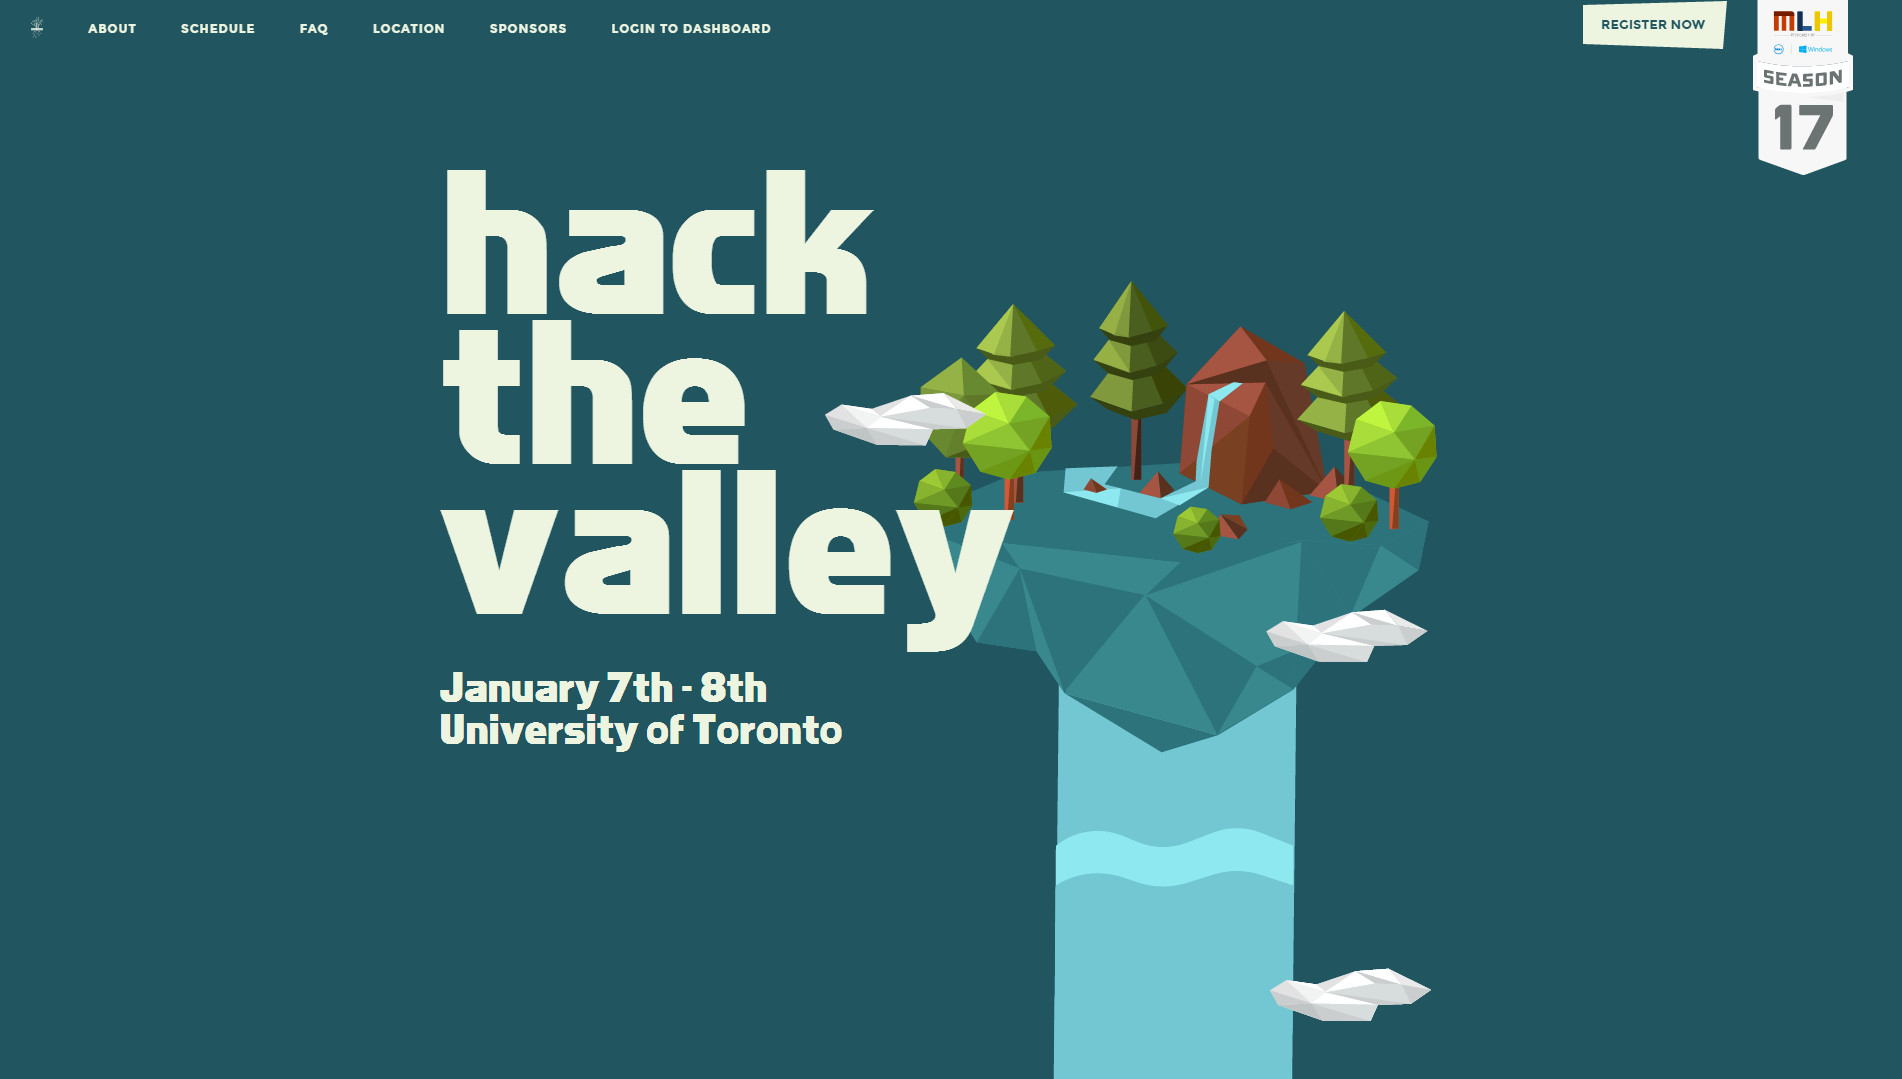
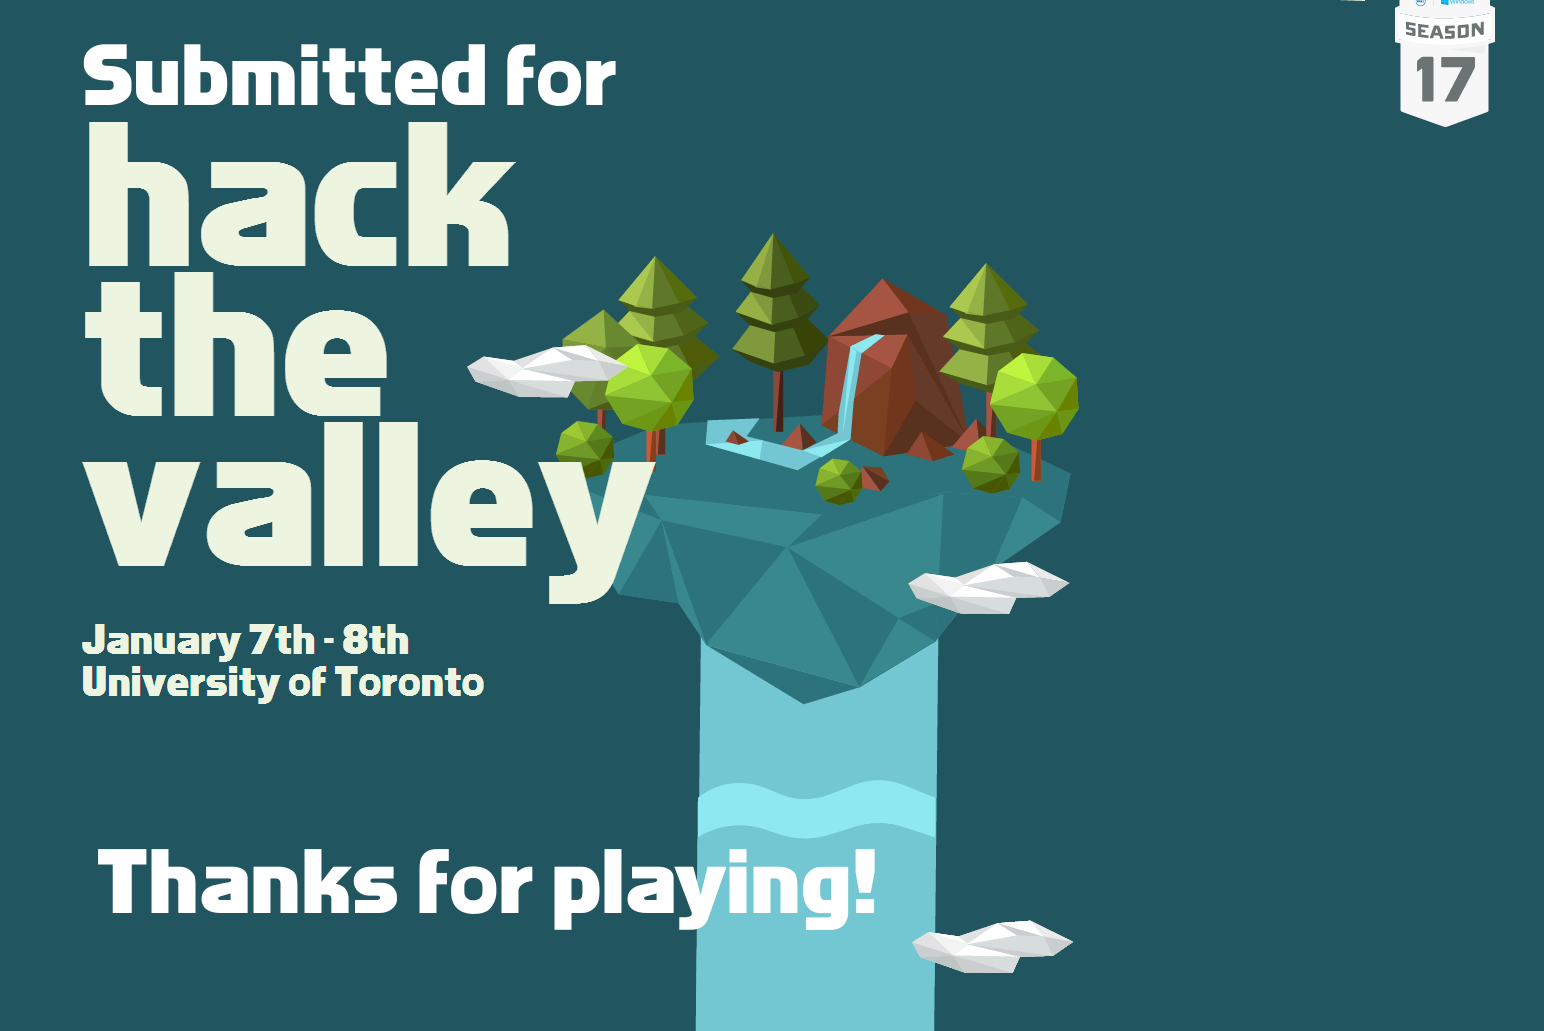
fixed all platform moving glitches, added "thanks for playing!" to last level

Changed region(s): [[0.0311, 0.0, 0.7772, 1.0], [0.8083, 0.0, 0.9948, 0.1862]]

diff --git a/game.html b/game.html
@@ -13,122 +13,18 @@ body {
 	<script src="./jquery-3.1.1.min.js"></script>
         <script src="./createPlayer.js"></script>
 	<script>
-		
+		Crafty.init(1544,1031, document.getElementById('game'));
 
-		Crafty.init(1500,1850, document.getElementById('game'));
+        Crafty.e('Floor, 2D, DOM')
+                .attr({x: 570, y: 465, w: 480, h: 10});
 
-                Crafty.e('Floor, 2D, DOM')
-                        .attr({x: 925, y: 525, w: 425, h: 10});
+        createPlayer(820, 50);
 
-                createPlayer(1000, 0);
-
-
-                Crafty.e('2D, Collision, Canvas')
-                    .attr({x: -200, y: 700, w: 8000, h: 1})
-                    .onHit('Twoway', function(data){
-                        window.location.href = "game.html";
-                    });
-
-
-// 		var idNum = 1;
-// 		var adding = false;
-// 		var changing = false;
-// 		var craftyObjectIds = {ent1: "Floor"};
-
-// 		var observer = new MutationObserver(function(records){
-// 			console.log("call:");
-//             console.log(records);
-// // something was removed
-//             if (records[0].removedNodes.length > 0){
-// 				if (adding == false && changing == false) {
-//                     records[0].removedNodes.forEach(function(elm){
-//                         console.log("destroyed" + elm.id);
-//                         Crafty(craftyObjectIds[elm.id]).destroy();
-// 					});
-// 				}
-//             } else {
-
-// //something was added
-// 				if(records[0].addedNodes.length > 0) {
-//                     records[0].addedNodes.forEach(function(elm){
-// 						console.log("adding: " + elm);
-// 						if (adding == false && changing == false) {
-// 							adding=true;
-// 							console.log(elm);
-// 							console.log(elm.outerHTML);
-// 							var tranformRe = /transform: translate3d\(\d*px, \d*px, \d*px\)/g;
-// 							var transform = tranformRe.exec(elm.outerHTML);
-// 							console.log(transform);
-// 							var numRe = /\d+/g;
-// 							var xyNums =  numRe.exec(transform);
-// 							var posX = numRe.exec(transform);
-// 							var posY = numRe.exec(transform);
-// 							console.log("x:" + posX + "Y:" + posY);
-// 							var sizeW = elm.clientWidth;
-// 							var sizeH = elm.clientHeight;
-// 							console.log(elm.parentNode);
-// 							elm.parentNode.removeChild(elm);
-// 							Crafty.e("entity" + idNum + ", 2D, DOM, Color")
-// 							.attr({x: posX, y: posY, w: sizeW, h: sizeH})
-// 							.color('red');
-							
-// 						} else {
-// 							craftyObjectIds[elm.id] = "entity"+idNum;
-// 							idNum++;
-// 							console.log(craftyObjectIds);
-// 							adding=false;
-// 							changing = false;
-// 							console.log("done adding");
-// 						}
-//                     });
-// //something changed
-//                 } else {
-// 				    console.log("changing:");
-// 					console.log(records[0].target);
-// 				    var elm = records[0].target;
-// 				    var elementInArr = typeof craftyObjectIds[elm.id] !== "undefined";
-// 					console.log("objectID " + craftyObjectIds[elm.id]);
-//                     if (changing == false && adding == false && elementInArr) {
-// 						changing=true;
-// 						var tranformRe = /transform: translate3d\(\d*px, \d*px, \d*px\)/g;
-//                         var transform = tranformRe.exec(elm.outerHTML);
-//                         console.log(transform);
-//                         var numRe = /\d+/g;
-//                         var xyNums =  numRe.exec(transform);
-//                         var posX = numRe.exec(transform);
-//                         var posY = numRe.exec(transform);
-//                         console.log("x:" + posX + "Y:" + posY);
-//                         var sizeW = elm.clientWidth;
-//                         var sizeH = elm.clientHeight;
-//                         console.log("objId: "+ craftyObjectIds[elm.id]);
-// 						console.log(Crafty(craftyObjectIds[elm.id]));
-// 					    Crafty(craftyObjectIds[elm.id]).destroy;
-//                         elm.parentNode.removeChild(elm);
-//                         Crafty.e("entity" + idNum + ", 2D, DOM, Color")
-//                         .attr({x: posX, y: posY, w: sizeW, h: sizeH})
-//                         .color('red');
-						
-//                     } else {
-// 						craftyObjectIds[elm.id] = "entity"+idNum;
-// 						idNum++;
-// 						changing=false;
-// 						adding=false;
-// 						console.log("done changing");
-// 					}
-//                 }
-//             }
-//         });
-// 		var observerConfig = {
-// 			attributes: true, 
-// 			childList: true, 
-// 			characterData: true,
-// 			subtree: true,
-// 		};
-
-// 		var targetNode = document.body;
-// 		function plzSveMe() {
-// 		observer.observe(targetNode, observerConfig);
-// 		}
+        Crafty.e('2D, Collision, Canvas')
+            .attr({x: -200, y: 700, w: 8000, h: 1})
+            .onHit('Twoway', function(data){
+                window.location.href = "game.html";
+            });
 	</script>
 </body>
 </html>

diff --git a/Level4.html b/Level4.html
@@ -1,83 +1,11 @@
 <html>
 <head></head>
-<body onload="onplz()">
+<body>
 	<div id="game">"transform"= translate3d(225px, Too Low, 0px)</div>
 	<script src="./crafty.js"></script>
 	<script src="./jquery-3.1.1.min.js"></script>
 	<script src="./createPlayer.js"></script>
 	<script>
-		var idNum = 1;
-		var addStop = 0;
-		var changing = false;
-		callback = function(records){
-   			console.log(records);
-// something was removed
-   			if (records[0].removedNodes.length > 0 && changing == false){
-   				records[0].removedNodes.forEach(function(elm){
-   					console.log(elm.id);
-					Crafty(craftyObjectIds[elm.id]).destroy();
-   				});
-				
-   			} else {
-			changing = false;
-//something was added
-            if(records[0].addedNodes.length > 0) {
-				records[0].addedNodes.forEach(function(elm){
-					if (addStop == 0) {
-						addStop = 1;
-						console.log(elm);
-						var myre = /[0-9]*/;
-						var nums = myre.exec(elm.style[transform]);
-						var posX = nums[0];
-						var posY = nums[1];
-						var sizeW = elm.clientWidth;
-						var sizeH = elm.clientHeight;
-						Crafty.e("entity" + idNum + ", 2D, DOM, Color")
-						.attr({x: posX, y: posY, w: sizeW, h: sizeH});
-						if(elm) {
-							elm.parentNode.removeChild(elm);
-						}
-					} else {
-						console.log("stopped adding");
-					}
-				});
-//something changed
-			} else {
-				var elm = records[0].target;
-
-				if ("ent3".localeCompare(elm.id) == 0) {
-					changing = true;
-					var tranformRe = /transform: translate3d\(\d*px, \d*px, \d*px\)/g;
-					var transform = tranformRe.exec(elm.outerHTML);
-					console.log(transform);
-					var numRe = /\d+/g;
-					var xyNums =  numRe.exec(transform);
-					var posX = numRe.exec(transform);
-					var posY = numRe.exec(transform);
-					console.log("x:" + posX + "Y:" + posY);
-					var sizeW = elm.clientWidth;
-					var sizeH = elm.clientHeight;
-					elm.parentNode.removeChild(elm);
-					Crafty.e("Floor, 2D, DOM, Color")
-					.attr({x: parseInt(posX[0]), y: parseInt(posY[0]), w: sizeW, h: sizeH})
-					.color('red');
-					
-				}
-			}
-			}
-		}
-
-		var observer = new MutationObserver(callback);
-
-		var observerConfig = {
-			attributes: true, 
-			childList: true, 
-			characterData: true,
-			subtree: true,
-		};
-
-		var targetNode = document.body;
-
 		Crafty.init(500,450, document.getElementById('game'));
 
 		Crafty.e('2D, Collision, Canvas, Color')
@@ -93,7 +21,22 @@
 
     	Crafty.e('Floor, 2D, DOM, Color')
         	.attr({x: 225, y: 300, w: 150, h: 10})
-        	.color('red');
+        	.color('red')
+        	.bind("EnterFrame", function () {
+				var regex = /transform: translate3d\((-?\d+)px, (-?\d+)px, (-?\d+)px\)/g
+				var transform = regex.exec(this._element.outerHTML);
+				if (transform) {
+					var posX = parseInt(transform[1]);
+					var posY = parseInt(transform[2]);
+					var sizeW = this._element.clientWidth;
+					var sizeH = this._element.clientHeight;
+					this.attr({x: posX, y: posY, w: sizeW, h: sizeH})
+				}
+
+        		if(!this._element.parentNode) {
+        			this.destroy();
+        		}
+        	});
 
 		Crafty.e('2D, Collision, Canvas')
 			.attr({x: -200, y: 500, w: 800, h: 1})
@@ -101,15 +44,12 @@
 				window.location.href = "Level4.html";
 			});
 
-			createPlayer(0, 0);
-//where map data starts
+		createPlayer(0, 0);
+		
 		var craftyObjectIds={ent3: "Floor"};
         	Crafty.e('Floor, 2D, Canvas, Color')
             	.attr({x: 0, y: 300, w: 150, h: 10})
             	.color('red');
-		function onplz() { 
-		observer.observe(targetNode, observerConfig);
-		}
 	</script>
 </body>
 </html>

diff --git a/Level3.html b/Level3.html
@@ -29,6 +29,16 @@
             .attr({x: 0, y: 250, w: 400, h: 10})
             .color('red')
             .bind("EnterFrame", function () {
+				var regex = /transform: translate3d\((-?\d+)px, (-?\d+)px, (-?\d+)px\)/g
+				var transform = regex.exec(this._element.outerHTML);
+				if (transform) {
+					var posX = parseInt(transform[1]);
+					var posY = parseInt(transform[2]);
+					var sizeW = this._element.clientWidth;
+					var sizeH = this._element.clientHeight;
+					this.attr({x: posX, y: posY, w: sizeW, h: sizeH})
+				}
+            	
         		if(!this._element.parentNode) {
         			this.destroy();
         			Crafty('Twoway').get()[0].ay = 500;
